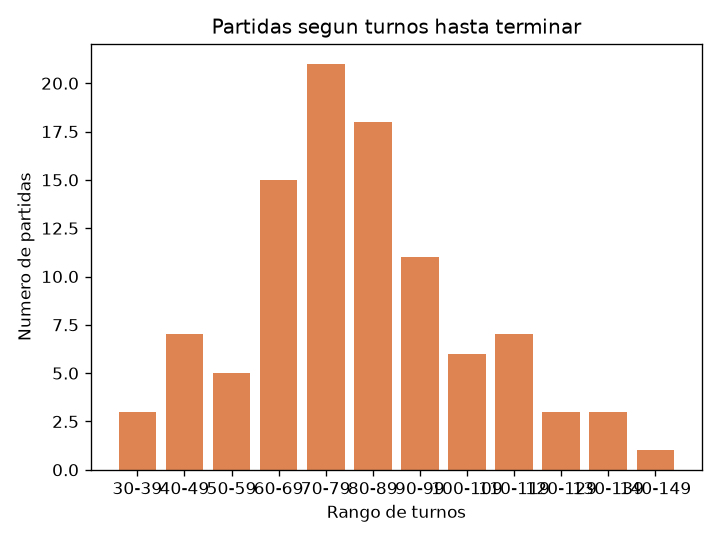
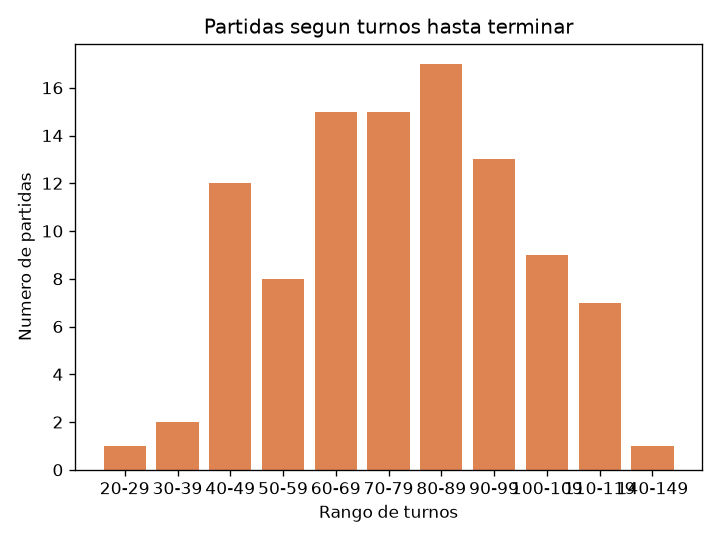
[FEAT]: Introduce new method to get closer to the nearest door for Firefighter

Changed region(s): [[0.0306, 0.0593, 0.9778, 0.9778], [0.275, 0.0296, 0.825, 0.0889]]

diff --git a/auxiliars.py b/auxiliars.py
@@ -206,3 +206,30 @@ def dijkstra_from(start, building, fire):
                 heapq.heappush(open_set, (tentative_g, neighbor))
 
     return g_score
+
+def best_exit_by_cost(pos, exits, building, fire):
+    """
+    Nombre: best_exit_by_cost
+    Descripcion: evalua el costo REAL (via a_star, considerando
+                 paredes, puertas y fuego) hacia cada salida
+                 disponible y regresa la de menor costo. A
+                 diferencia de nearest_target (Manhattan), esto
+                 evita elegir una salida geometricamente cercana
+                 pero bloqueada por fuego/paredes cuando otra salida
+                 mas lejana en linea recta es en realidad mas barata
+                 de alcanzar.
+    Entradas: pos (tuple[int,int]), exits (list[tuple[int,int]]),
+              building (BuildingManager), fire (FireManager)
+    Salidas: tuple[int,int] o None -> la salida de menor costo
+             alcanzable, o None si ninguna es alcanzable
+    Uso: pensado para reemplazar nearest_target(self.pos, self.exits)
+         en Firefighter._act_optimized() cuando self.victim es True.
+    """
+    mejor = None
+    mejor_costo = float("inf")
+    for salida in exits:
+        _, costo = a_star(pos, salida, building, fire)
+        if costo < mejor_costo:
+            mejor_costo = costo
+            mejor = salida
+    return mejor

diff --git a/Firefighter.py b/Firefighter.py
@@ -1,5 +1,5 @@
 import mesa
-from auxiliars import triage_factor, nearest_target, a_star, greedy_direction, get_next_step_direction
+from auxiliars import triage_factor, nearest_target, a_star, greedy_direction, get_next_step_direction, best_exit_by_cost
 
 
 class Firefighter(mesa.Agent):
@@ -594,7 +594,7 @@ class Firefighter(mesa.Agent):
 
             if self.victim:
                 # PRIORIDAD ABSOLUTA
-                target = nearest_target(self.pos, self.exits)
+                target = best_exit_by_cost(self.pos, self.exits, self.building, self.fire)
                 if target is None:
                     break
 
